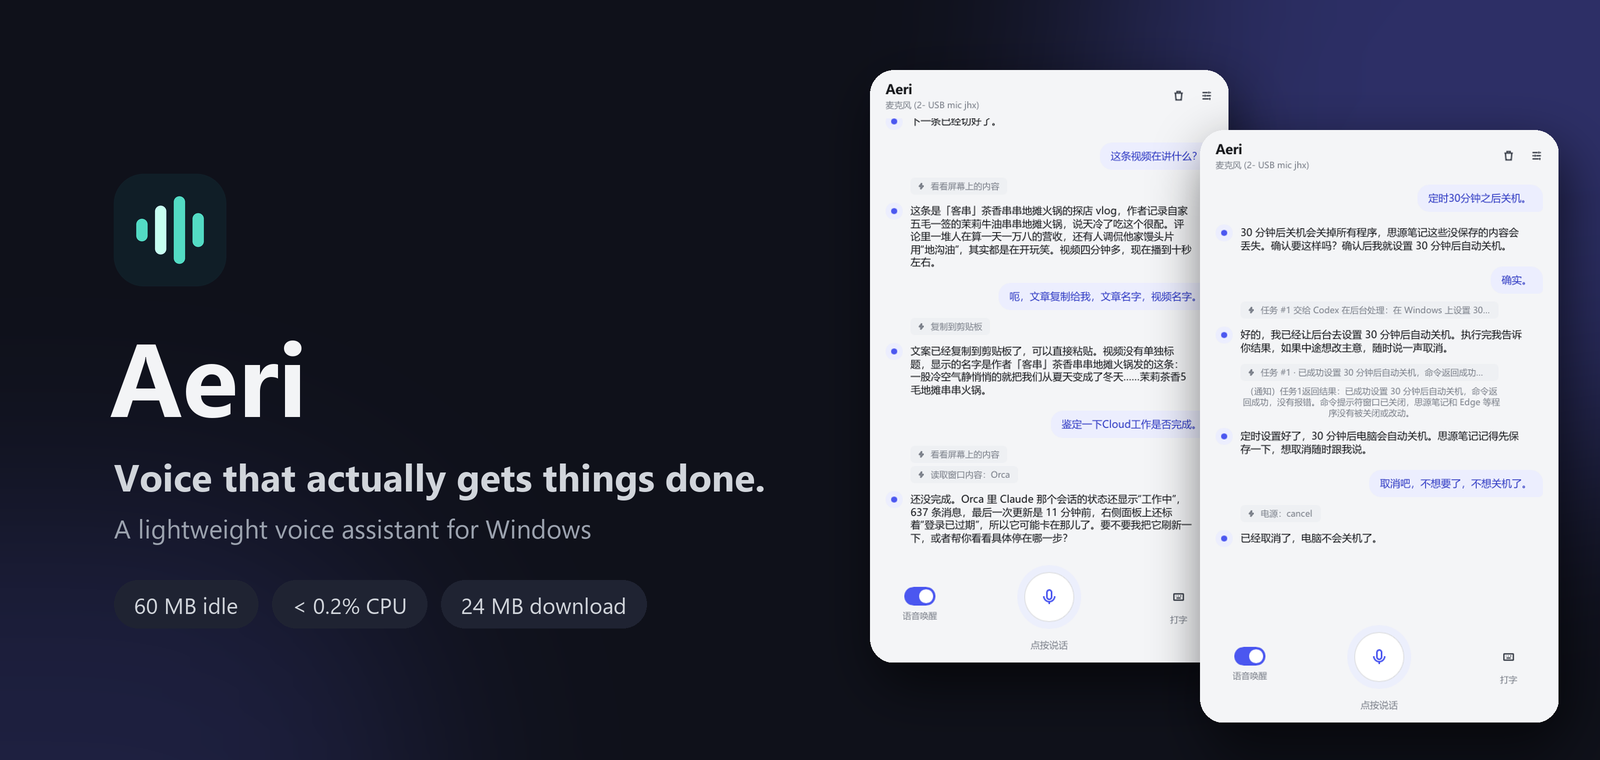
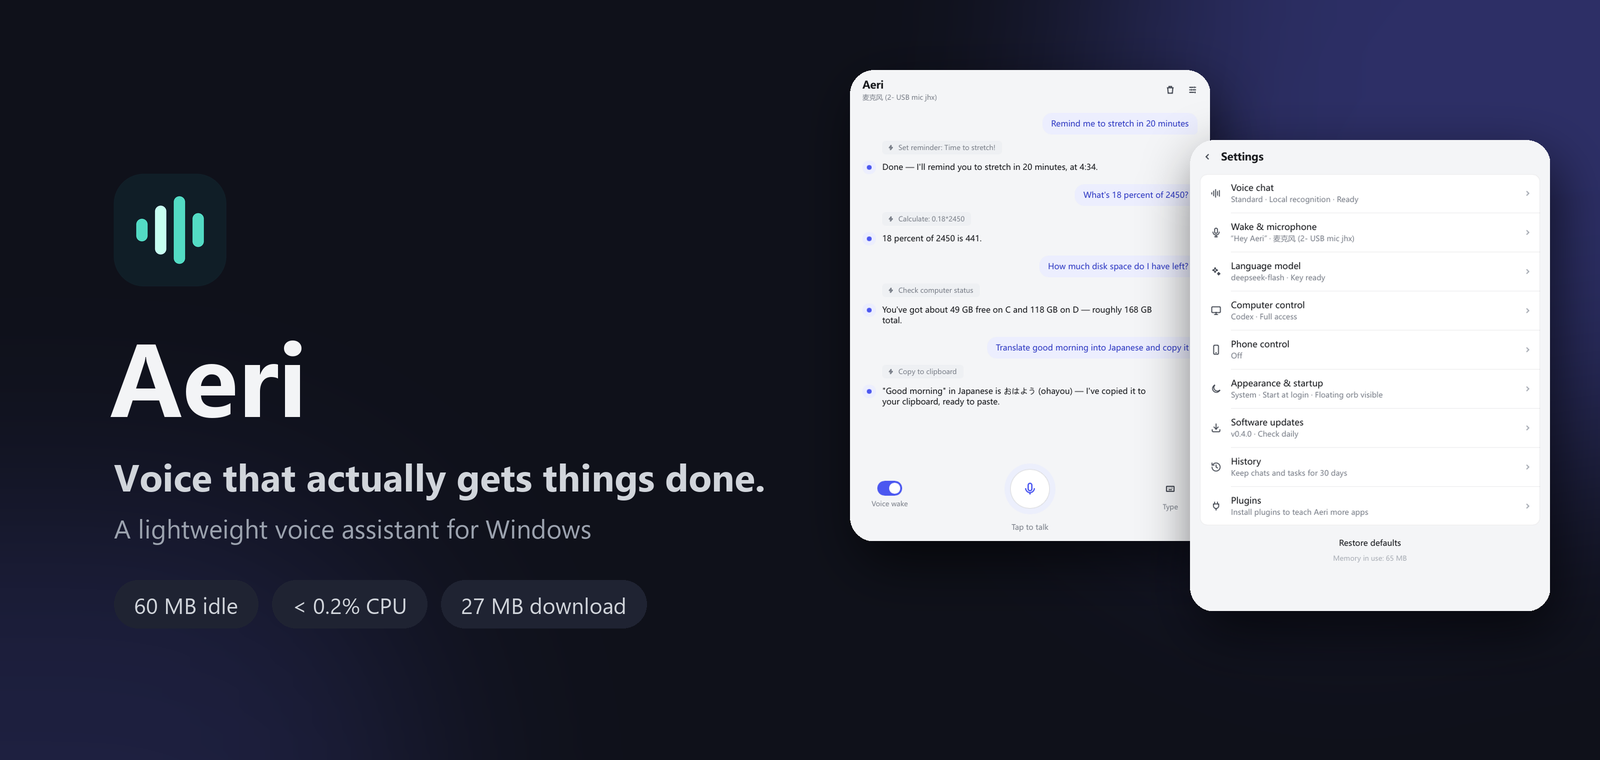
English screenshots and hero images

Changed region(s): [[0.5312, 0.0908, 1.0, 0.9684], [0.7812, 0.6658, 0.875, 0.7263]]

diff --git a/scripts/make_hero.py b/scripts/make_hero.py
@@ -35,9 +35,9 @@ def paste_card(canvas, img, xy, shadow_alpha):
 
 TEXT = {
     "zh": {"tagline": "常驻一整天，也感觉不到它在。", "sub": "Windows 上的语音助手 · 说一句，它帮你做完",
-           "chips": ["待机 60 MB", "整机 CPU < 0.2%", "下载 24 MB"], "suffix": "", "bold": FONT_BOLD, "regular": FONT},
+           "chips": ["待机 60 MB", "整机 CPU < 0.2%", "下载 27 MB"], "suffix": "", "shots": ["screen-read.png", "shutdown-confirm.png"], "bold": FONT_BOLD, "regular": FONT},
     "en": {"tagline": "Voice that actually gets things done.", "sub": "A lightweight voice assistant for Windows",
-           "chips": ["60 MB idle", "< 0.2% CPU", "24 MB download"], "suffix": "-en",
+           "chips": ["60 MB idle", "< 0.2% CPU", "27 MB download"], "suffix": "-en", "shots": ["en-chat.png", "en-settings.png"],
            "bold": "C:/Windows/Fonts/segoeuib.ttf", "regular": "C:/Windows/Fonts/segoeui.ttf"},
 }
 
@@ -65,9 +65,12 @@ def make(name, t, lang="zh"):
         d.text((x + 20 * S, 590 * S), label, font=chip_font, fill=t["chip_text"])
         x += w + 14 * S
 
-    for i, (shot, xy) in enumerate([("screen-read.png", (870, 70)), ("shutdown-confirm.png", (1200, 130))]):
+    # Two app screenshots, overlapping; sized so both fit whatever the screenshot proportions
+    width = 360
+    for shot, xy in zip(tx["shots"], [(850, 70), (1190, 140)]):
         img = Image.open(OUT / shot).convert("RGBA")
-        img = img.resize((int(img.width * 0.78 * S), int(img.height * 0.78 * S)), Image.LANCZOS)
+        k = min(width / img.width, 592 / img.height)
+        img = img.resize((int(img.width * k * S), int(img.height * k * S)), Image.LANCZOS)
         paste_card(c, rounded(img, 24 * S), (xy[0] * S, xy[1] * S), t["shadow"])
 
     c.resize((W, H), Image.LANCZOS).convert("RGB").save(OUT / f"hero{tx['suffix']}-{name}.png", optimize=True)

diff --git a/README.md b/README.md
@@ -50,6 +50,13 @@
 > **"Add this to my Obsidian daily note"**
 > With a plugin, Aeri uses the app's own link or local API instead of clicking around. Two steps, a few seconds.
 
+## Screenshots
+
+| Ask, and it acts | Settings | Voice, your way |
+|:---:|:---:|:---:|
+| ![Chat](docs/screenshots/en-chat.png) | ![Settings](docs/screenshots/en-settings.png) | ![Voice settings](docs/screenshots/en-voice.png) |
+| Reminders, math, disk space, translation, each with the tool it used | One page per area; problems show in amber | Standard mode with free offline recognition, or realtime voice |
+
 ## Why it feels light
 
 | | Measured |
